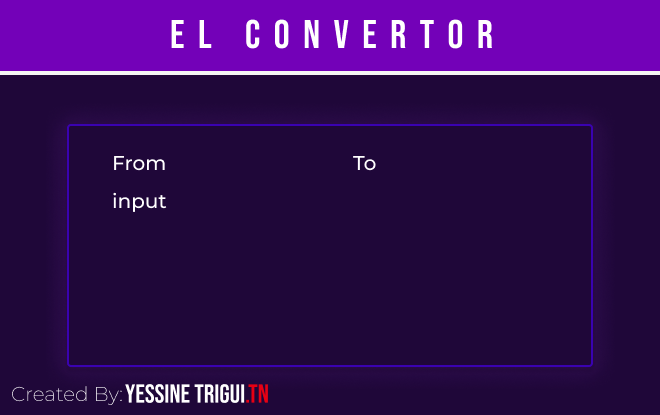
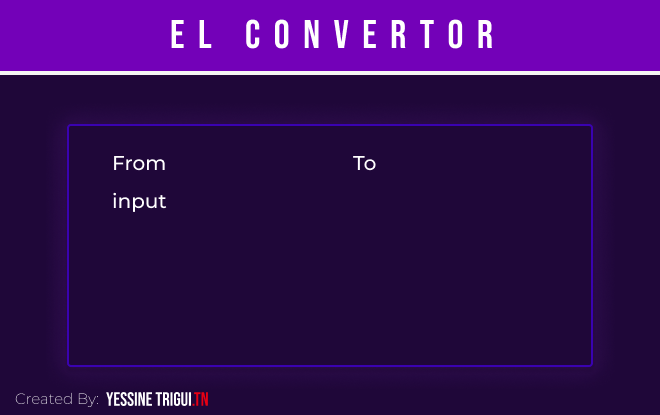
Check Number+ change BG + fix err messages

Changed region(s): [[0.0303, 0.9253, 0.4242, 0.9831]]

diff --git a/master.py b/master.py
@@ -24,7 +24,7 @@ class APP():
             
             ]
         for i in range(2,17):
-            desc=""
+            desc=" -"
             if(i==2):
                 desc = " -Binarie"
             elif(i==8):
@@ -34,8 +34,8 @@ class APP():
             elif (i==16):
                 desc = " -HexDecimal"
             OPTIONS.append("BASE "+str(i)+desc)
-        OPTIONS.append("BASE 24")
-        OPTIONS.append("BASE 32")
+        OPTIONS.append("BASE 24 -")
+        OPTIONS.append("BASE 32 -")
         self.sl_var1 = StringVar(self.screen)
         self.sl_var1.set("Select Base") # default value
         self.sl_var2 = StringVar(self.screen)
@@ -80,15 +80,17 @@ class APP():
 
     def Start(self):
         def CheckBaSE(n, B):
+            print(B)
             st = str(n)
             i=0
             STP=False
             while(i<len(st) and STP==False):
                 if (not("0"<=st[i]<="9")):
                     if(B<11):
-                        STP = True
+                        break
                     elif(not("A"<=st[i].upper()<="F")):
-                        STP = True
+                        break
+
 
                 i+=1
             return i==len(st)
@@ -127,7 +129,7 @@ class APP():
             INP = self.ent.get()
             if(len(INP)==0 or (not(CheckBaSE(INP, int(FB[FB.find(" ")+1: FB.find("-")-1]))))):
                 tkinter.messagebox.showerror("El Convertor",
-                    "Please Enter A Number")  # BS NOT FOUND
+                    "Please Enter A Valid Number")  # BS NOT FOUND
             else:
                 
                 B10  = convert_B_B10(str(INP.upper()), int(FB[FB.find(" ")+1: FB.find("-")-1]))
